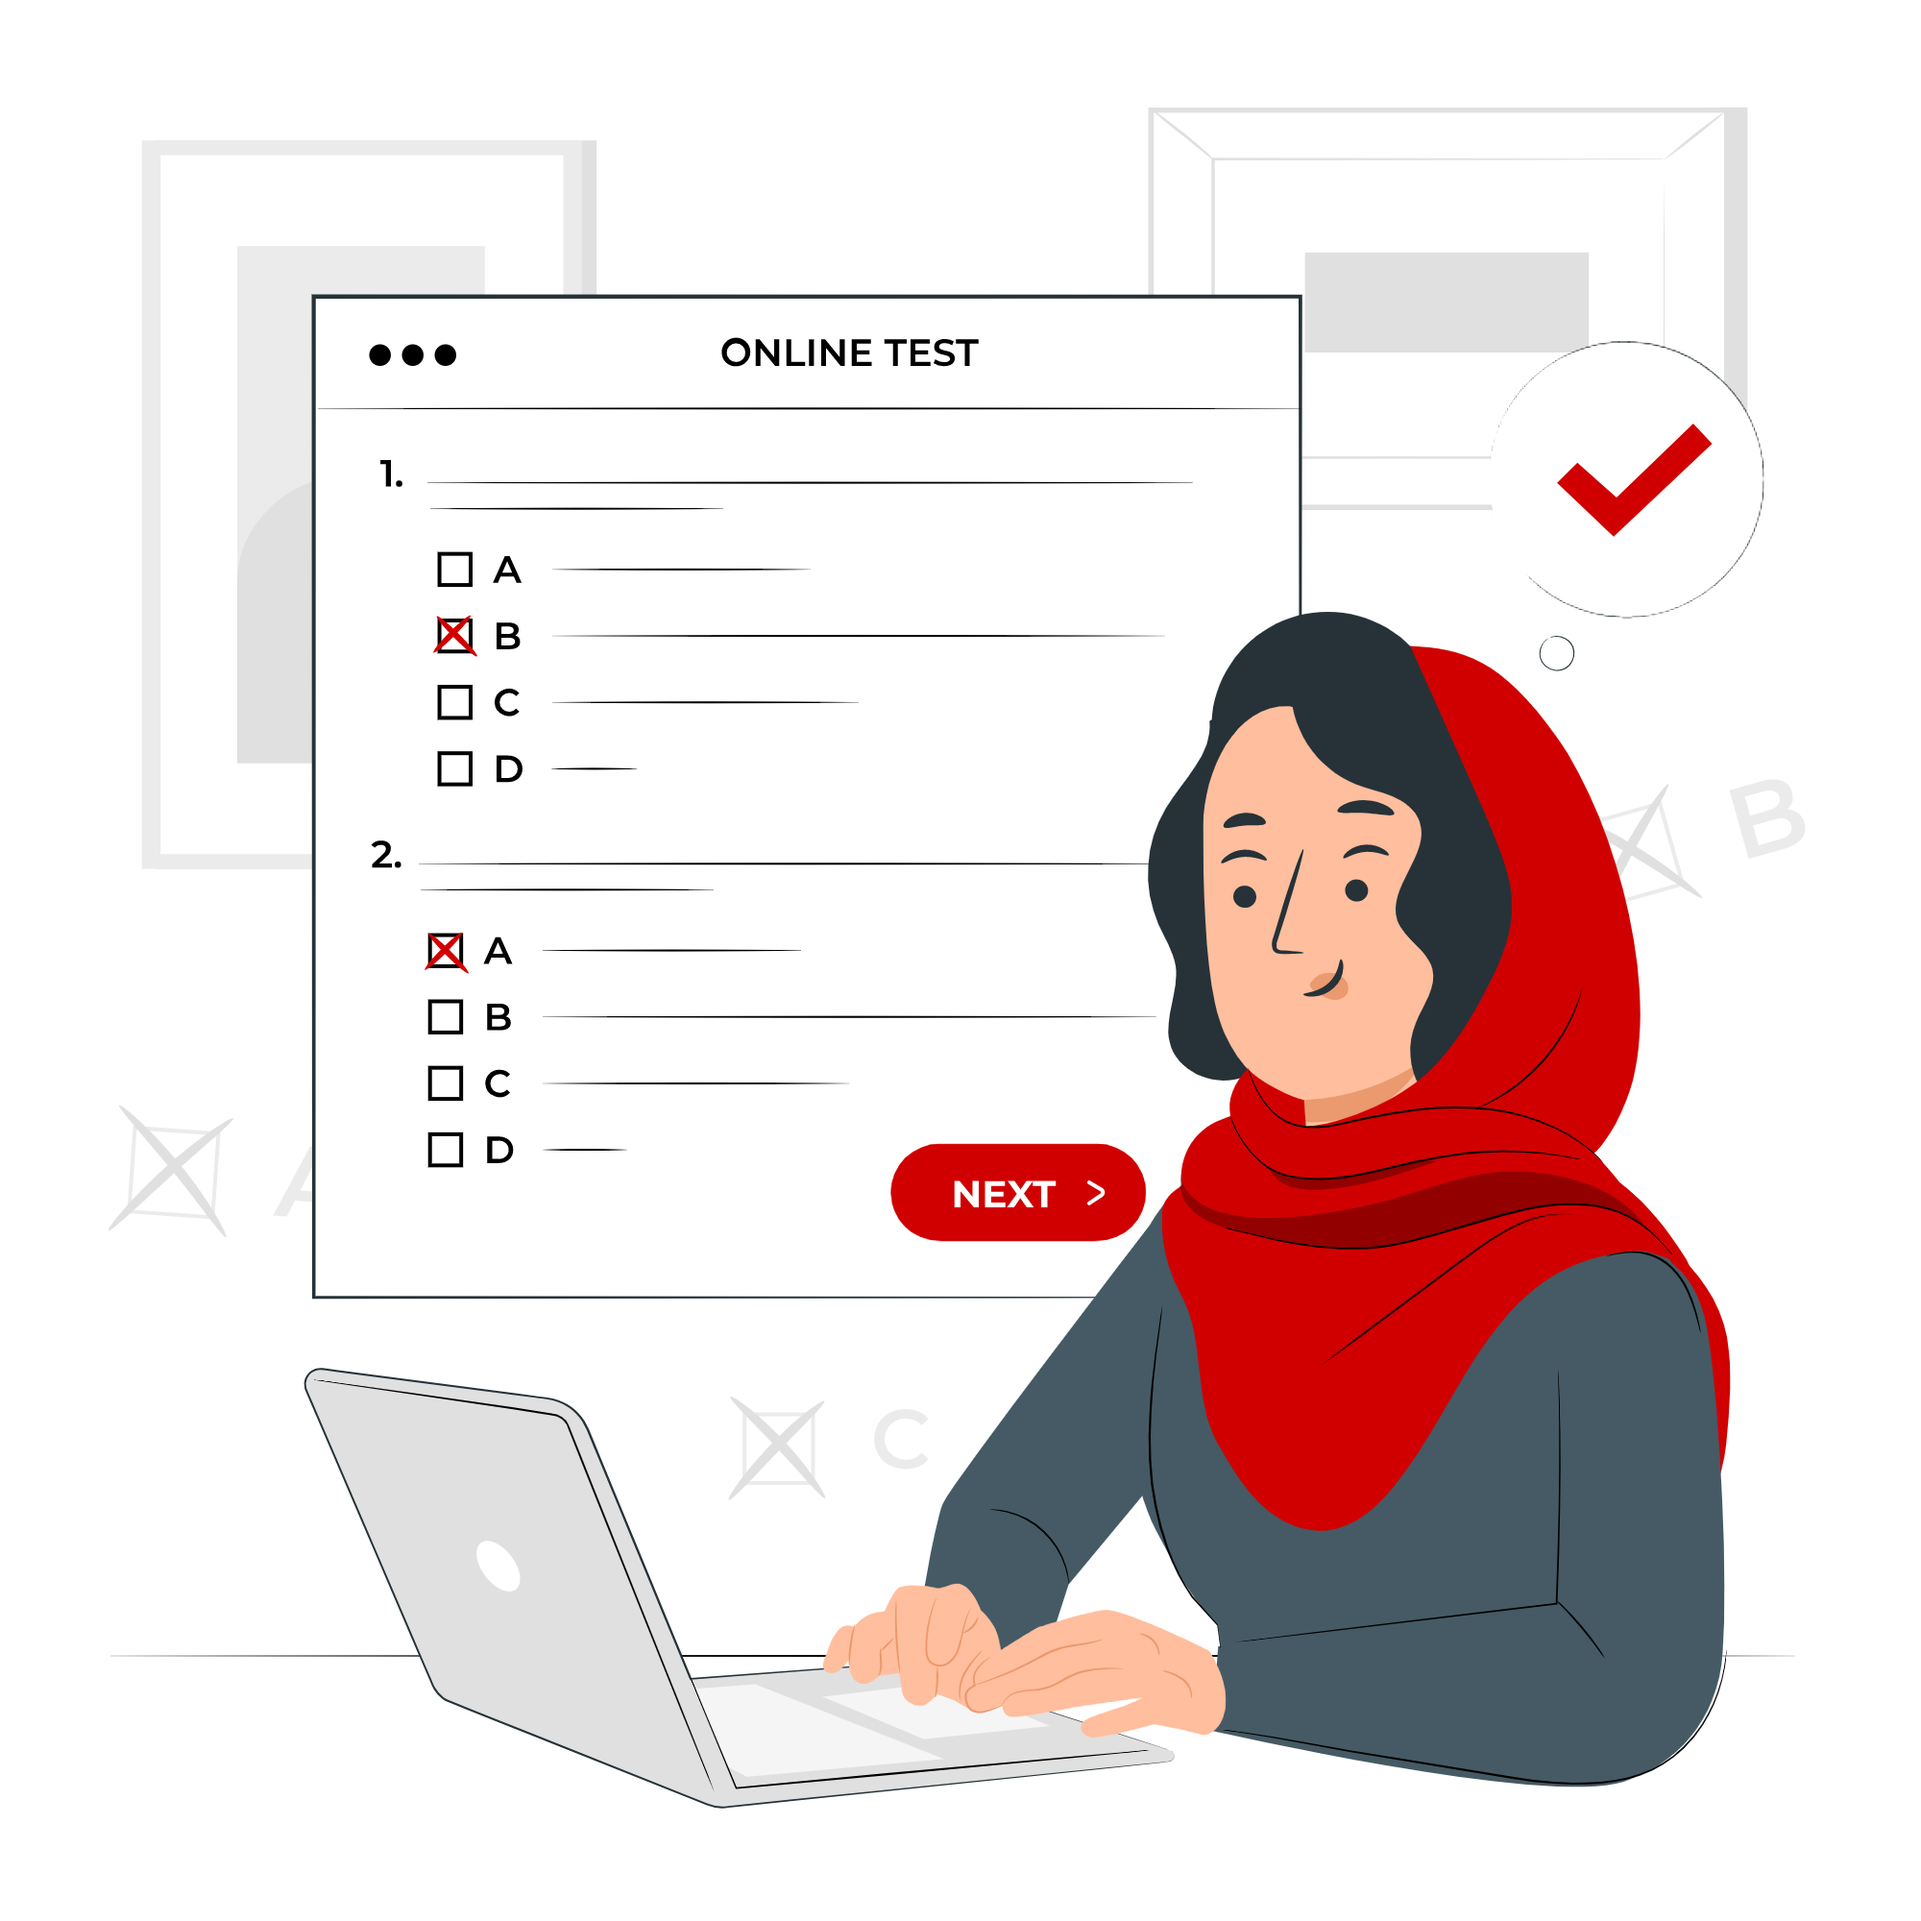
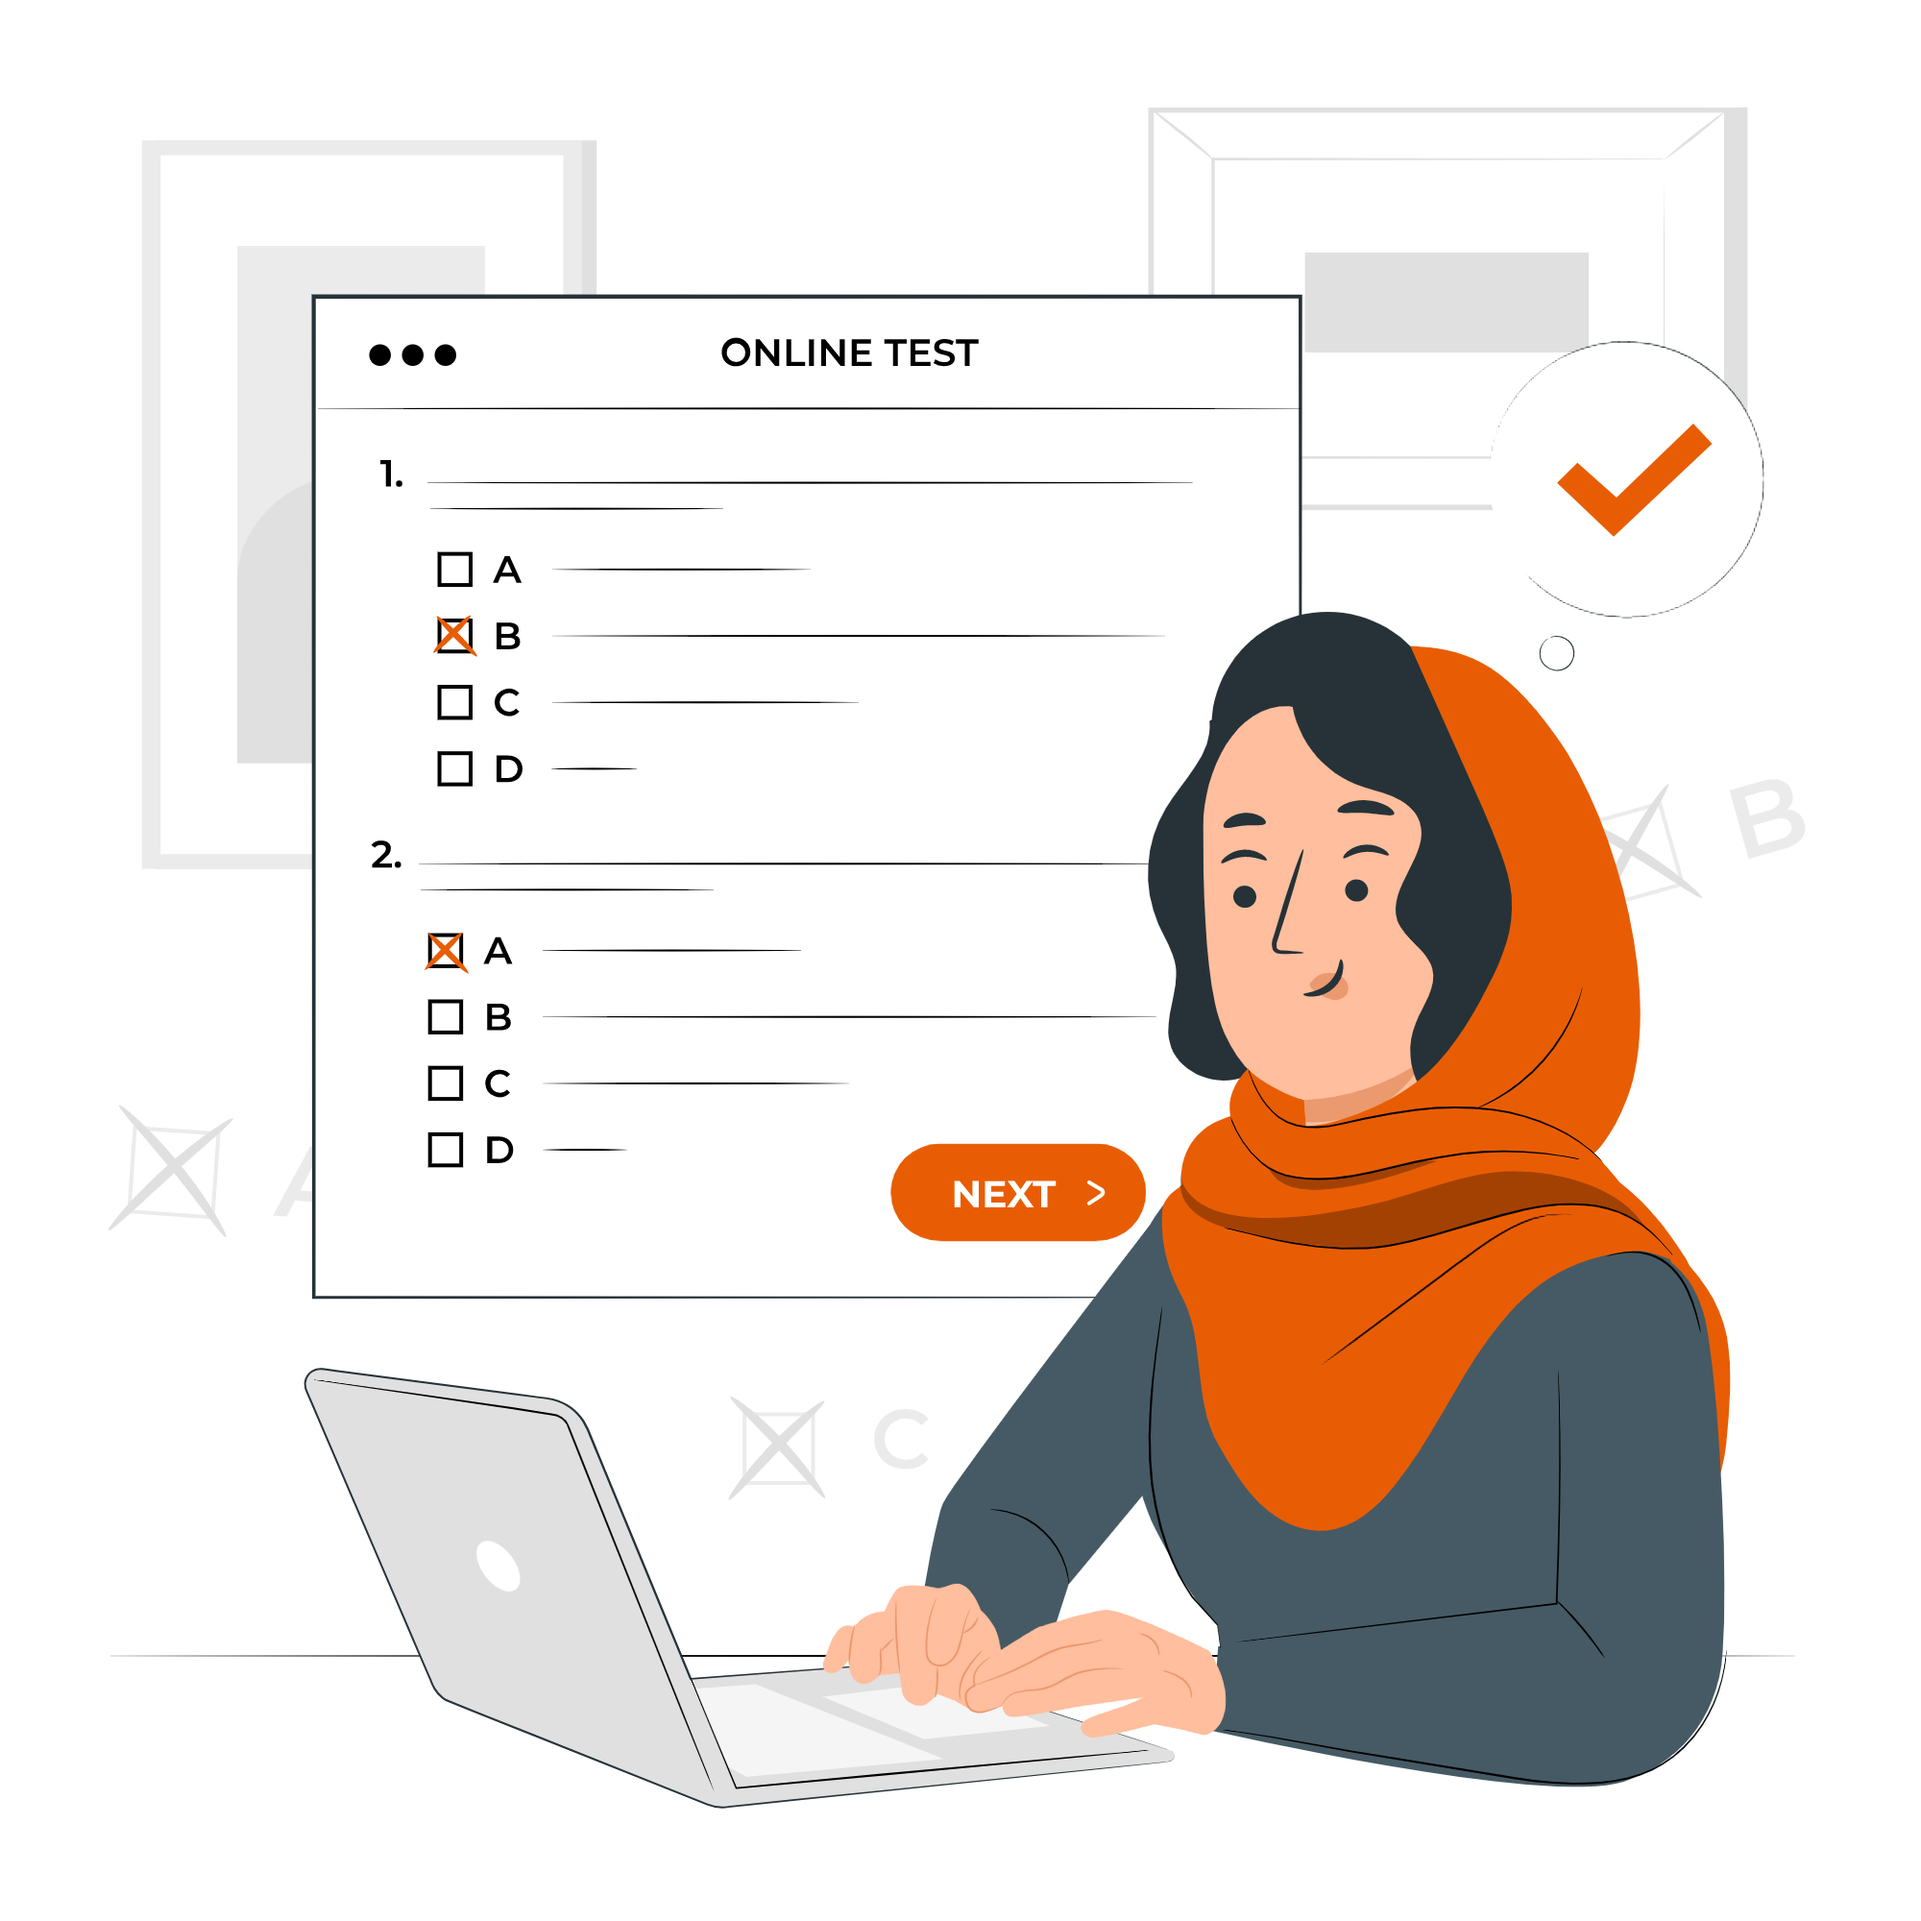
working-on-categories-three

diff --git a/Pages/Home.js b/Pages/Home.js
@@ -68,7 +68,7 @@ const styles = StyleSheet.create({
   },
   button: {
     width: "60%",
-    backgroundColor: "#dc2f02",
+    backgroundColor: "#e85d04",
     padding: 10,
     borderRadius: 16,
     marginVertical: 5,
